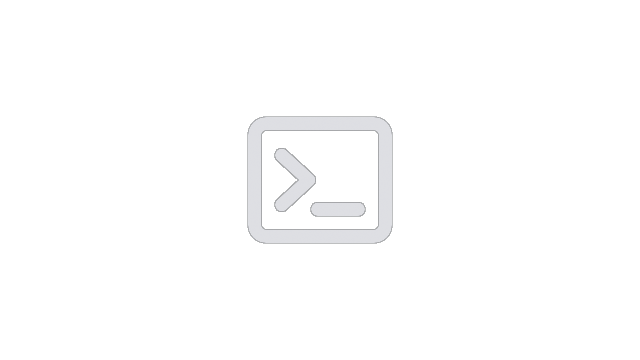
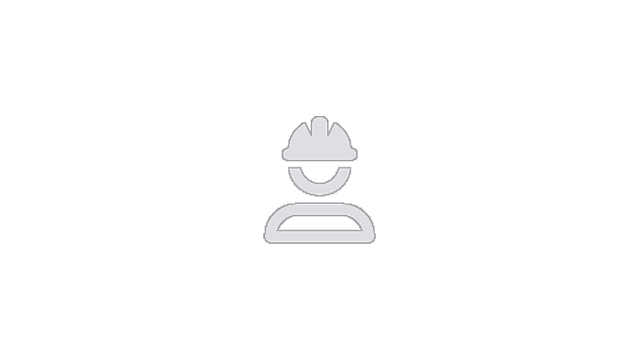
add new development and community pages

Changed region(s): [[0.375, 0.3056, 0.625, 0.7028]]

diff --git a/gitbook/README.md b/gitbook/README.md
@@ -13,5 +13,5 @@ layout:
     visible: false
 ---
 
-<table data-view="cards" data-full-width="true"><thead><tr><th></th><th></th><th></th><th data-hidden data-card-cover data-type="files"></th><th data-hidden data-card-target data-type="content-ref"></th></tr></thead><tbody><tr><td><strong>Official</strong></td><td>Clanker HQ</td><td></td><td><a href=".gitbook/assets/official.png">official.png</a></td><td><a href="official/links.md">links.md</a></td></tr><tr><td><strong>Speculation</strong></td><td>Buy &#x26; sell Clankers</td><td></td><td><a href=".gitbook/assets/speculation.png">speculation.png</a></td><td><a href="speculation/links.md">links.md</a></td></tr><tr><td><strong>Data</strong></td><td>Clankers analysis &#x26; stats</td><td></td><td><a href=".gitbook/assets/data.png">data.png</a></td><td><a href="data/links.md">links.md</a></td></tr><tr><td><strong>Media</strong></td><td>Articles mentioning Clanker</td><td></td><td><a href=".gitbook/assets/media.png">media.png</a></td><td><a href="media/links.md">links.md</a></td></tr><tr><td><strong>Builders</strong></td><td>The reason we have nice things</td><td></td><td><a href=".gitbook/assets/builders.png">builders.png</a></td><td><a href="builders/links.md">links.md</a></td></tr><tr><td><strong>Games</strong></td><td>Interactive Clank'n</td><td></td><td><a href=".gitbook/assets/games.png">games.png</a></td><td><a href="games/links.md">links.md</a></td></tr></tbody></table>
+<table data-view="cards" data-full-width="true"><thead><tr><th></th><th></th><th></th><th data-hidden data-card-cover data-type="files"></th><th data-hidden data-card-target data-type="content-ref"></th></tr></thead><tbody><tr><td><strong>Official</strong></td><td>Clanker HQ</td><td></td><td><a href=".gitbook/assets/official.png">official.png</a></td><td><a href="official/links.md">links.md</a></td></tr><tr><td><strong>Speculation</strong></td><td>Buy &#x26; sell Clankers</td><td></td><td><a href=".gitbook/assets/speculation.png">speculation.png</a></td><td><a href="speculation/links.md">links.md</a></td></tr><tr><td><strong>Data</strong></td><td>Clankers analysis &#x26; stats</td><td></td><td><a href=".gitbook/assets/data.png">data.png</a></td><td><a href="data/links.md">links.md</a></td></tr><tr><td><strong>Media</strong></td><td>Articles mentioning Clanker</td><td></td><td><a href=".gitbook/assets/media.png">media.png</a></td><td><a href="media/links.md">links.md</a></td></tr><tr><td><strong>Builders</strong></td><td>The reason we have nice things</td><td></td><td><a href=".gitbook/assets/builders.png">builders.png</a></td><td><a href="builders/links.md">links.md</a></td></tr><tr><td><strong>Games</strong></td><td>Interactive Clank'n</td><td></td><td><a href=".gitbook/assets/games.png">games.png</a></td><td><a href="games/links.md">links.md</a></td></tr><tr><td><strong>Development</strong></td><td>ClankerTech for the devs</td><td></td><td><a href=".gitbook/assets/development.png">development.png</a></td><td><a href="development/links.md">links.md</a></td></tr><tr><td><strong>Community</strong></td><td>Channels dedicated to Clanker</td><td></td><td><a href=".gitbook/assets/community.png">community.png</a></td><td><a href="community/links.md">links.md</a></td></tr></tbody></table>
 

diff --git a/gitbook/builders/links.md b/gitbook/builders/links.md
@@ -1,5 +1,5 @@
 ---
-icon: rectangle-terminal
+icon: user-helmet-safety
 layout: editorial
 ---
 
@@ -40,6 +40,12 @@ Clanker Co-founder\
 ***
 
 ## Community
+
+**@benbodhi**\
+Developer of <a href="https://warpcast.com/benbodhi/0xc443453e">Clanker Alerts Discord Bot</a>\
+[https://warpcast.com/benbodhi](https://warpcast.com/benbodhi)
+
+***
 
 **@0xbhaisaab**\
 Developer of <a href="https://warpcast.com/0xbhaisaab/0x04125428">Clanker On Call 1-775-CLANKER</a>\

diff --git a/gitbook/development/links.md b/gitbook/development/links.md
@@ -1,0 +1,18 @@
+---
+icon: rectangle-terminal
+layout: editorial
+---
+
+# Development
+
+**Neynar Clanker Deployment API**\
+Deploy tokens with a single API call\
+[https://warpcast.com/rish/0xa8c7964b](https://warpcast.com/rish/0xa8c7964b)
+
+***
+
+**Neynar Clanker Deployment API**\
+Discord bot alerts for new Clanker deployments\
+[https://warpcast.com/benbodhi/0xc443453e](https://warpcast.com/benbodhi/0xc443453e)
+
+***

diff --git a/gitbook/community/links.md b/gitbook/community/links.md
@@ -1,0 +1,16 @@
+---
+icon: people-roof
+layout: editorial
+---
+
+# Community
+
+**Clankers Official**\
+[https://warpcast.com/~/channel/clankers](https://warpcast.com/~/channel/clankers)
+
+***
+
+**Clanker中文社区集散地**\
+[https://warpcast.com/~/channel/clanker-cn](https://warpcast.com/~/channel/clanker-cn)
+
+***

diff --git a/gitbook/SUMMARY.md b/gitbook/SUMMARY.md
@@ -25,3 +25,11 @@
 ## GAMES
 
 * [Games](games/links.md)
+
+## DEVELOPMENT
+
+* [Development](development/links.md)
+
+## COMMUNITY
+
+* [Community](community/links.md)
